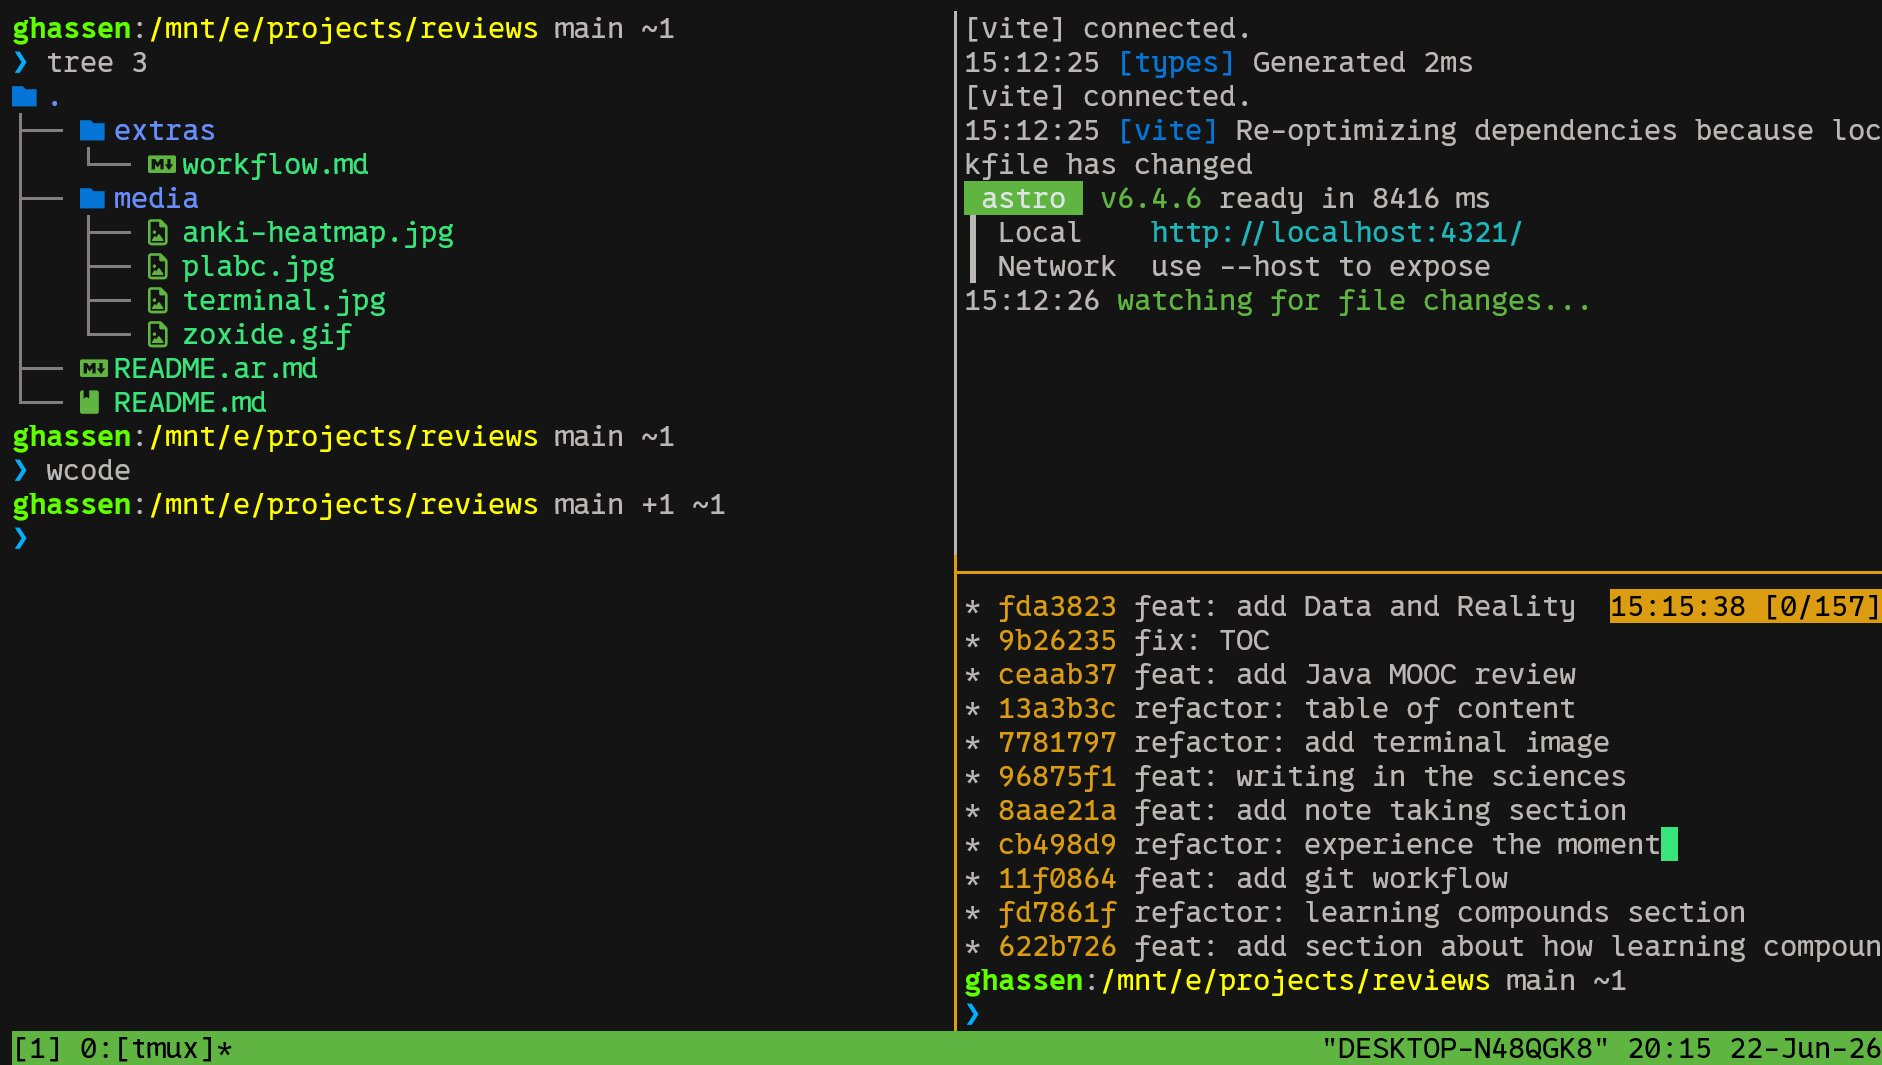
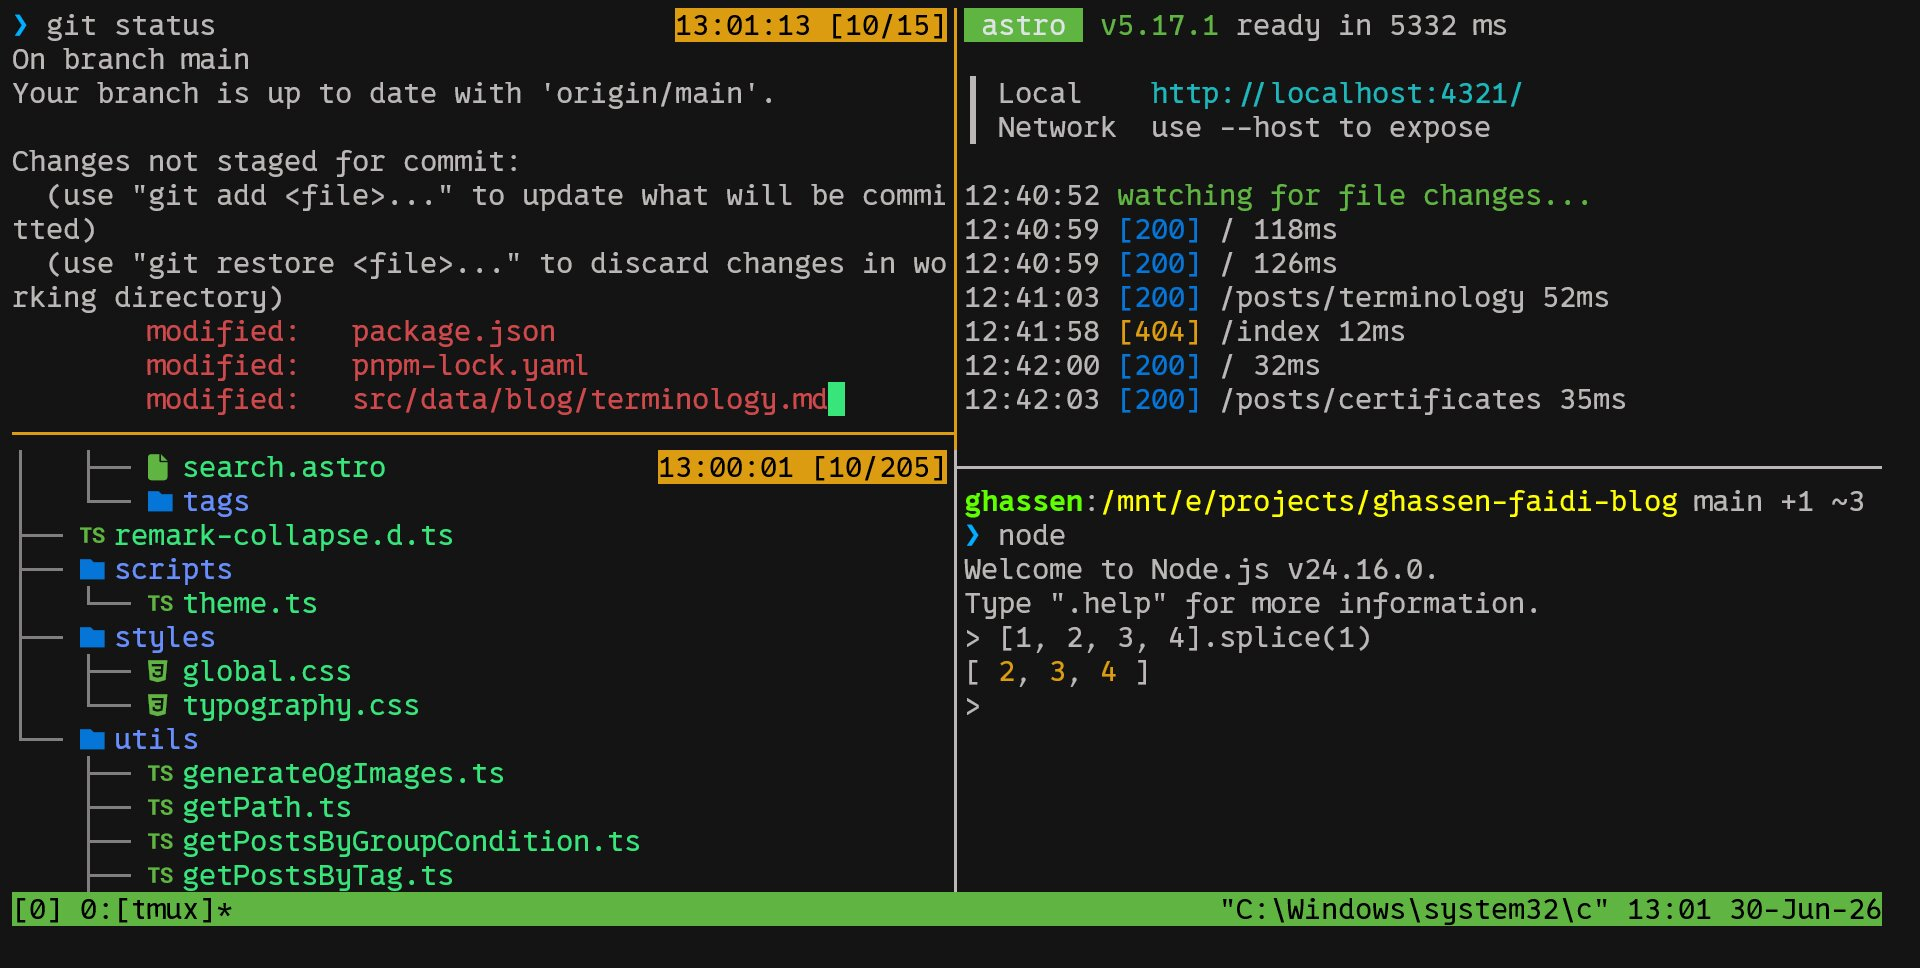
refactor: various

Changed region(s): [[0.0, 0.0, 1.0, 1.0], [0.9862, 0.093, 1.0, 0.155]]

diff --git a/README.md b/README.md
@@ -1,8 +1,11 @@
-# A Student's Journey Into Computer Science and Life
+# A Student's Journey Into Computer Science (and Life)
 
-(work in progress...)
+NOTE: This page is work in progress
 
-I'm currently a third year software engineering student in Tunisia. I have many reasons to write this. But what got me thinking seriously into writing it is a stranger on the internet who once shared their learning journey in a [README file](https://github.com/spamegg1/reviews). Reading it gave me so much excitement and hope that I kept going. We need more of this.
+> Verily, knowledge is by learning, and forbearance is by exerting oneself to be forbearing
+
+I'm software engineering student in Tunisia. I have many reasons to write this. But what got me thinking seriously into writing it is a stranger on the internet who once shared their learning journey in some [README file](https://github.com/spamegg1/reviews). Reading it gave me so much excitement and hope that I kept going. Maybe we need more of this.
+One of the things I wanted in this document it to show how it might _feel_ to study CS.
 
 Many of the courses I've taken are part of the [OSSU curriculum](https://github.com/ossu/computer-science), if you've never heard about it before, give it a look.
 
@@ -14,7 +17,7 @@ This is not a roadmaps. It's just my personal experiences and the resources I we
   - [Short Story: The Day I Fell in Love with CS](#short-story-the-day-i-fell-in-love-with-cs)
   - [Insights about Learning and Education](#insights-about-learning-and-education)
     - [The Trap of Projection](#the-trap-of-projection)
-    - [Rethinking _self_-taught](#rethinking-self-taught)
+    - [Rethinking _self_-taught](#rethinking-self-taughtself-taught)
     - [It's all about good teachers](#its-all-about-good-teachers)
     - [Learning compounds](#learning-compounds)
     - [The forgotten side of learning from teachers](#the-forgotten-side-of-learning-from-teachers)
@@ -31,7 +34,7 @@ This is not a roadmaps. It's just my personal experiences and the resources I we
     - [Using Flashcards](#using-flashcards-anki)
     - [Taking notes](#taking-notes)
     - [Using the command line](#using-the-command-line)
-    - [Some ways to have fun](#some-ways-to-have-fun)
+    - [Some ways to have good fun](#some-ways-to-have-good-fun)
 - [Courses and Books](#course-and-book-reviews)
   - [Systematic Program Design](#systematic-program-design)
   - [Programming Languages: Parts A, B and C](#programming-languages-parts-a-b-and-c)
@@ -42,7 +45,6 @@ This is not a roadmaps. It's just my personal experiences and the resources I we
   - [Learning How to Learn](#learning-how-to-learn)
   - [Mindshift](#mindshift)
   - [Uncommon Sense Teaching](#uncommon-sense-teaching)
-  - [Other Courses on Learning](#other-courses-on-learning)
   - [Machine Learning Specialization](#machine-learning)
   - [Meta Version Control](#meta-version-control)
   - [Head First Git](#head-first-git)
@@ -52,7 +54,6 @@ This is not a roadmaps. It's just my personal experiences and the resources I we
   - [Writing in The Sciences](#writing-in-the-sciences)
   - [Data and Reality](#data-and-reality)
   - [Introduction to Web Accessibility](#introduction-to-web-accessibilitya11y)
-- [Where am I now?](#where-am-i-now)
 - [Footnotes](#footnotes)
 
 ## Tips and Reflections
@@ -129,7 +130,7 @@ So, TLDR: good learning might be slow, but it compounds really fast: the more yo
 #### The forgotten side of learning from teachers
 
 I had a Control Theory professor who would apologize when he interrupted a student in a discussion, "I'm so sorry for interrupting you", or "I apologize for interrupting you earlier, you may speak"
-I didn't use to apologize when interrupting people! I said, ha! that's a nice thing to do, I'll start doing it too!
+I didn't use to apologize when interrupting people! I said, ha! he's a nice person, that's a nice thing to do, I wanna be like that too!
 
 Even in online courses, one such moment was in [Programming Languages](#programming-languages-parts-a-b-and-c), when Dan Grossman said "people often confuse higher-order functions and first class function, _so we won't care either_", that had a lasting impact on how I deal with terminology.
 
@@ -350,24 +351,23 @@ And Windows users like me have an itch for opening the explorer (finder) for som
 That alone made them enjoy using the command line and motivated them to learn it more.
 So based on my observation, I believe that many people detest the command line simply because they never saw a real workflow, even a simple one, anything concrete that makes them feel it's worth learning.
 
-#### Some ways to have fun
+#### Some ways to have good fun
 
-I think having fun is an important part of learning, one shouldn't spend all of their time studying or they'll burn out, which isn't good -- _not_ because it reduces performance in long term -- but simply because it's not good for a human being to feel burned out.
+I think having fun is an important part of one's days, we shouldn't spend all of our time studying or we might burn out, which isn't good - _not_ because it reduces performance in long term, even though it does so - but simply because it's not good for a human being to feel burned out.
 
-There are many ways to have fun, I won't share the usual stuff, but small things I found enjoyable:
+Here some things I enjoy:
 
-- **Documentaries** could be a great way to both enjoy and learn new things about the world we live in. Here are some documentaries you might like:
+- **Documentaries** could be a great way to both have a good time and learn new things about the world we live in (if you have some reccs please make sure to share them with me!). Here are some documentaries you might like:
   - [Schooling the World](https://youtu.be/oDxYWspiN-8?si=-yFHsgKSNJOepC4c)
-  - [The True Cost](https://youtu.be/rwp0Bx0awoE?si=aoELpl9FEzc9Y5l6)
   - [Revolution OS](https://youtu.be/k0RYQVkQmWU?si=Yk1SoEyUWCdlCXcU)
   - [A Trip to Infinity](https://youtu.be/CNFm_DzHDaE?si=NNK-PDkLVEYLCgGJ)
-- I rarely watch movies anymore, I can't remember the last time I watched one actually, but these movies have a special place in my heart.
-  - The Flavor of Green Tea Over Rice (1952) -- Ozu
-  - 12 Angry Men (1957)
-  - My Neighbors the Yamadas (1999)
-- Plant Identification:
-  - Another really fun activity I've come across is identifying plants! iNaturalist is a great app to help you identify plants you see in your daily life (Be aware that other people may be able to see the location of the pictures you take)
+
+- I used to watch a lot of movies and animation in high school[^anime] but my interest kept dropping slowly and at some point I was just re-watching Akira Kurosawa's and Ozu's films, or maybe watching some Ghibli film on weekends, but once college started I stopped entirely. I didn't have time to waste, but my love for human stories remained[^human-stories]. So I simply turned to novels. I don't think I ever read a modern novel, but I really like classics. e.g. Les Miserables and Count of Monte Cristo, such stories are full of wisdom and human experience.
+
+- Plant Identification: Another really fun activity I've come across is identifying plants! iNaturalist is a great app to help you identify plants you see in your daily life (Be aware that other people may be able to see the location of the pictures you take, you need to remove it)
   - Knowing the names of the plants and flowers you see everyday makes each walk a more rich experience[^flowers], you'd start to notice how plants change from season to season. All of this even reminded me of how when you learn CS concepts and terms (e.g. abstraction or evaluation) you start to see things differently!
+
+- A friend of mine came up with a wild idea which is having a weekly meeting at a coffee shop where we teach each other some random stuff we learned that week, at one time he litarally kept explaining some interesting facts about geology to me.
 
 ## Course and Book Reviews
 
@@ -593,7 +593,7 @@ Also it's good to know that you don't need to have a "conceptual understanding" 
 it's not either/or
 
 - If you are a Windows user, it's recommend that you install linux alongside Windows (it's called Dual boot), you'd be able to choose which OS to run when you start your computer.
-- Or at the very least, install WSL. (like seriously, you must[^must] do that)
+- Or at the very least, install WSL. (like seriously, you must[^must] do that at the very least)
 - Make it the default shell in the terminal so that when you open the terminal app it's there
 - make the terminal maximized by default
 - install AutoHotKey and create a shortcut e.g. Control + Shift + Enter to open the terminal, it's very convenient.
@@ -955,11 +955,15 @@ Also when it comes to learning web accessibility, it seems the best way to learn
 
 _The Bottom Line_: This one was okay, it's not a bad course by any means. The course isn't very practical nor intellectually deep, but it made me think about these issues -- at least for some time. I'm grateful for that. Sometimes we rarely find time for what we claim we care about.
 
-## Where am I now?
+### Algorithms Specialization
+
+> I defintely owe you a proof
+
+### FullstackOpen
 
 ## Footnotes
 
-[^math-teacher]: He wasn't a particularly good math teacher, but he was a wise man and I liked him. He would often ask me, "Do you understand?" and I'd reply: "No problem, man. Don't push yourself too hard. I'll be okay." But the end of the year, he also told me: "I really like you because you're bad at math, but you don't fake it." For some reason, that made me feel good about myself.
+[^math-teacher]: He wasn't a particularly good math teacher -- He struggled a lot with handling ill-behaved students. I remember sitting in the second row with my wired headphones hidden under thick winter clothes: listening to intense classical music (used to like Baroque) watching the teacher yelling at students. It was serene (But as funny as it is, those were tough days). Even so, he was a wise man sometimes and I liked him. He would often ask me, "Do you understand?" and I'd reply: "No problem, man. Don't push yourself too hard. I'll be okay." But the end of the year, he also told me: "I really like you because you're bad at math, but you don't fake it."
 
 [^memory-paradox]: I've got this example from [this paper](https://papers.ssrn.com/sol3/papers.cfm?abstract_id=5250447), it's worth reading! it explains the concept of _schema_ formation and how mastering fundamental knowledge is necessary for deeper intuition. I printed that paper and read it twice, and I even summarized it and translated parts of it into Arabic. It's that good.
 
@@ -986,3 +990,7 @@ _The Bottom Line_: This one was okay, it's not a bad course by any means. The co
 [^fast-css]: One of my colleagues at the university once needed some help with CSS, she has the dashboard design but struggled to implement it, she told me ChatGPT was generating a mess. I told her I could help, it took me around 3 hours to write the entire CSS by hand. She was surprised so I explained to her the importance of a good teacher who would explain how to actually write CSS and not just the syntax, and shared some good resources.
 
 [^self-taught]: I heard this insight from someone named Ammar Ahmed in a telegram programming group. His point deeper, as he connected it to the problem individualism in our societies.
+
+[^anime]: I was really invested in that stuff, like, really _invested_. I even used to write long articles about art direction and storytelling, reading books on the topic, and even translate some documentaries about japanese directors and animators from English to Arabic.
+
+[^human-stories]: though it's rare to find a human story in today's works.
